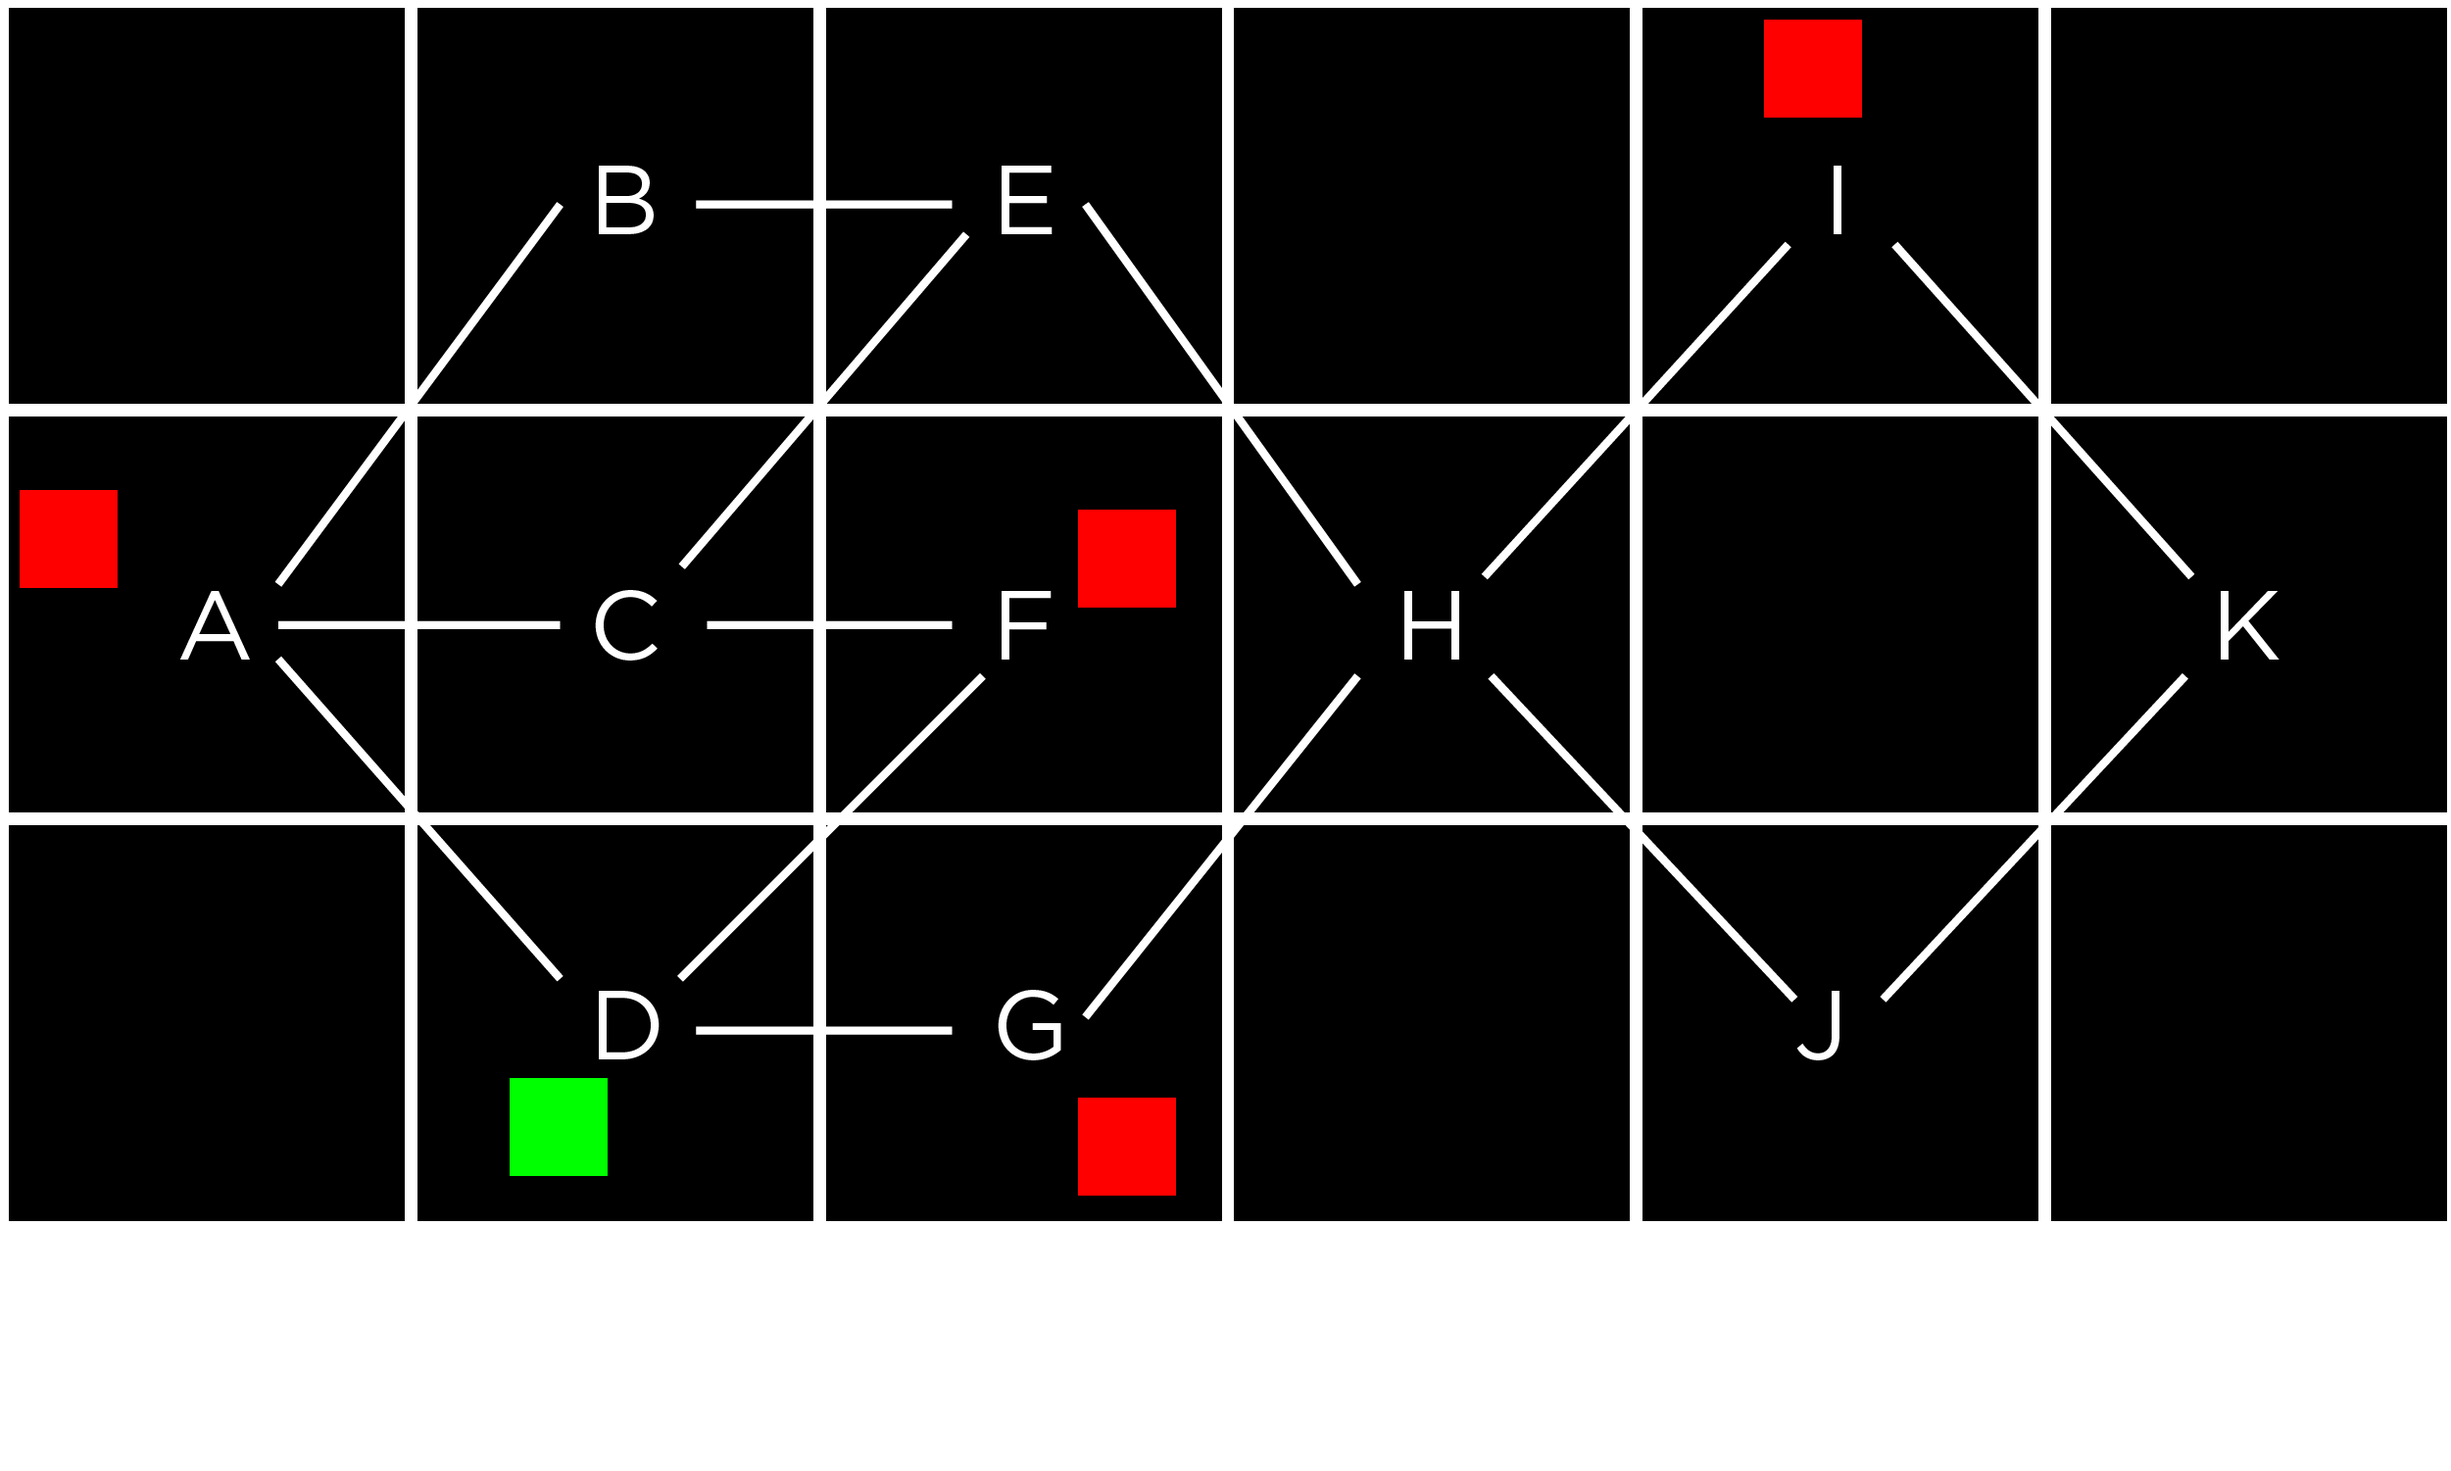
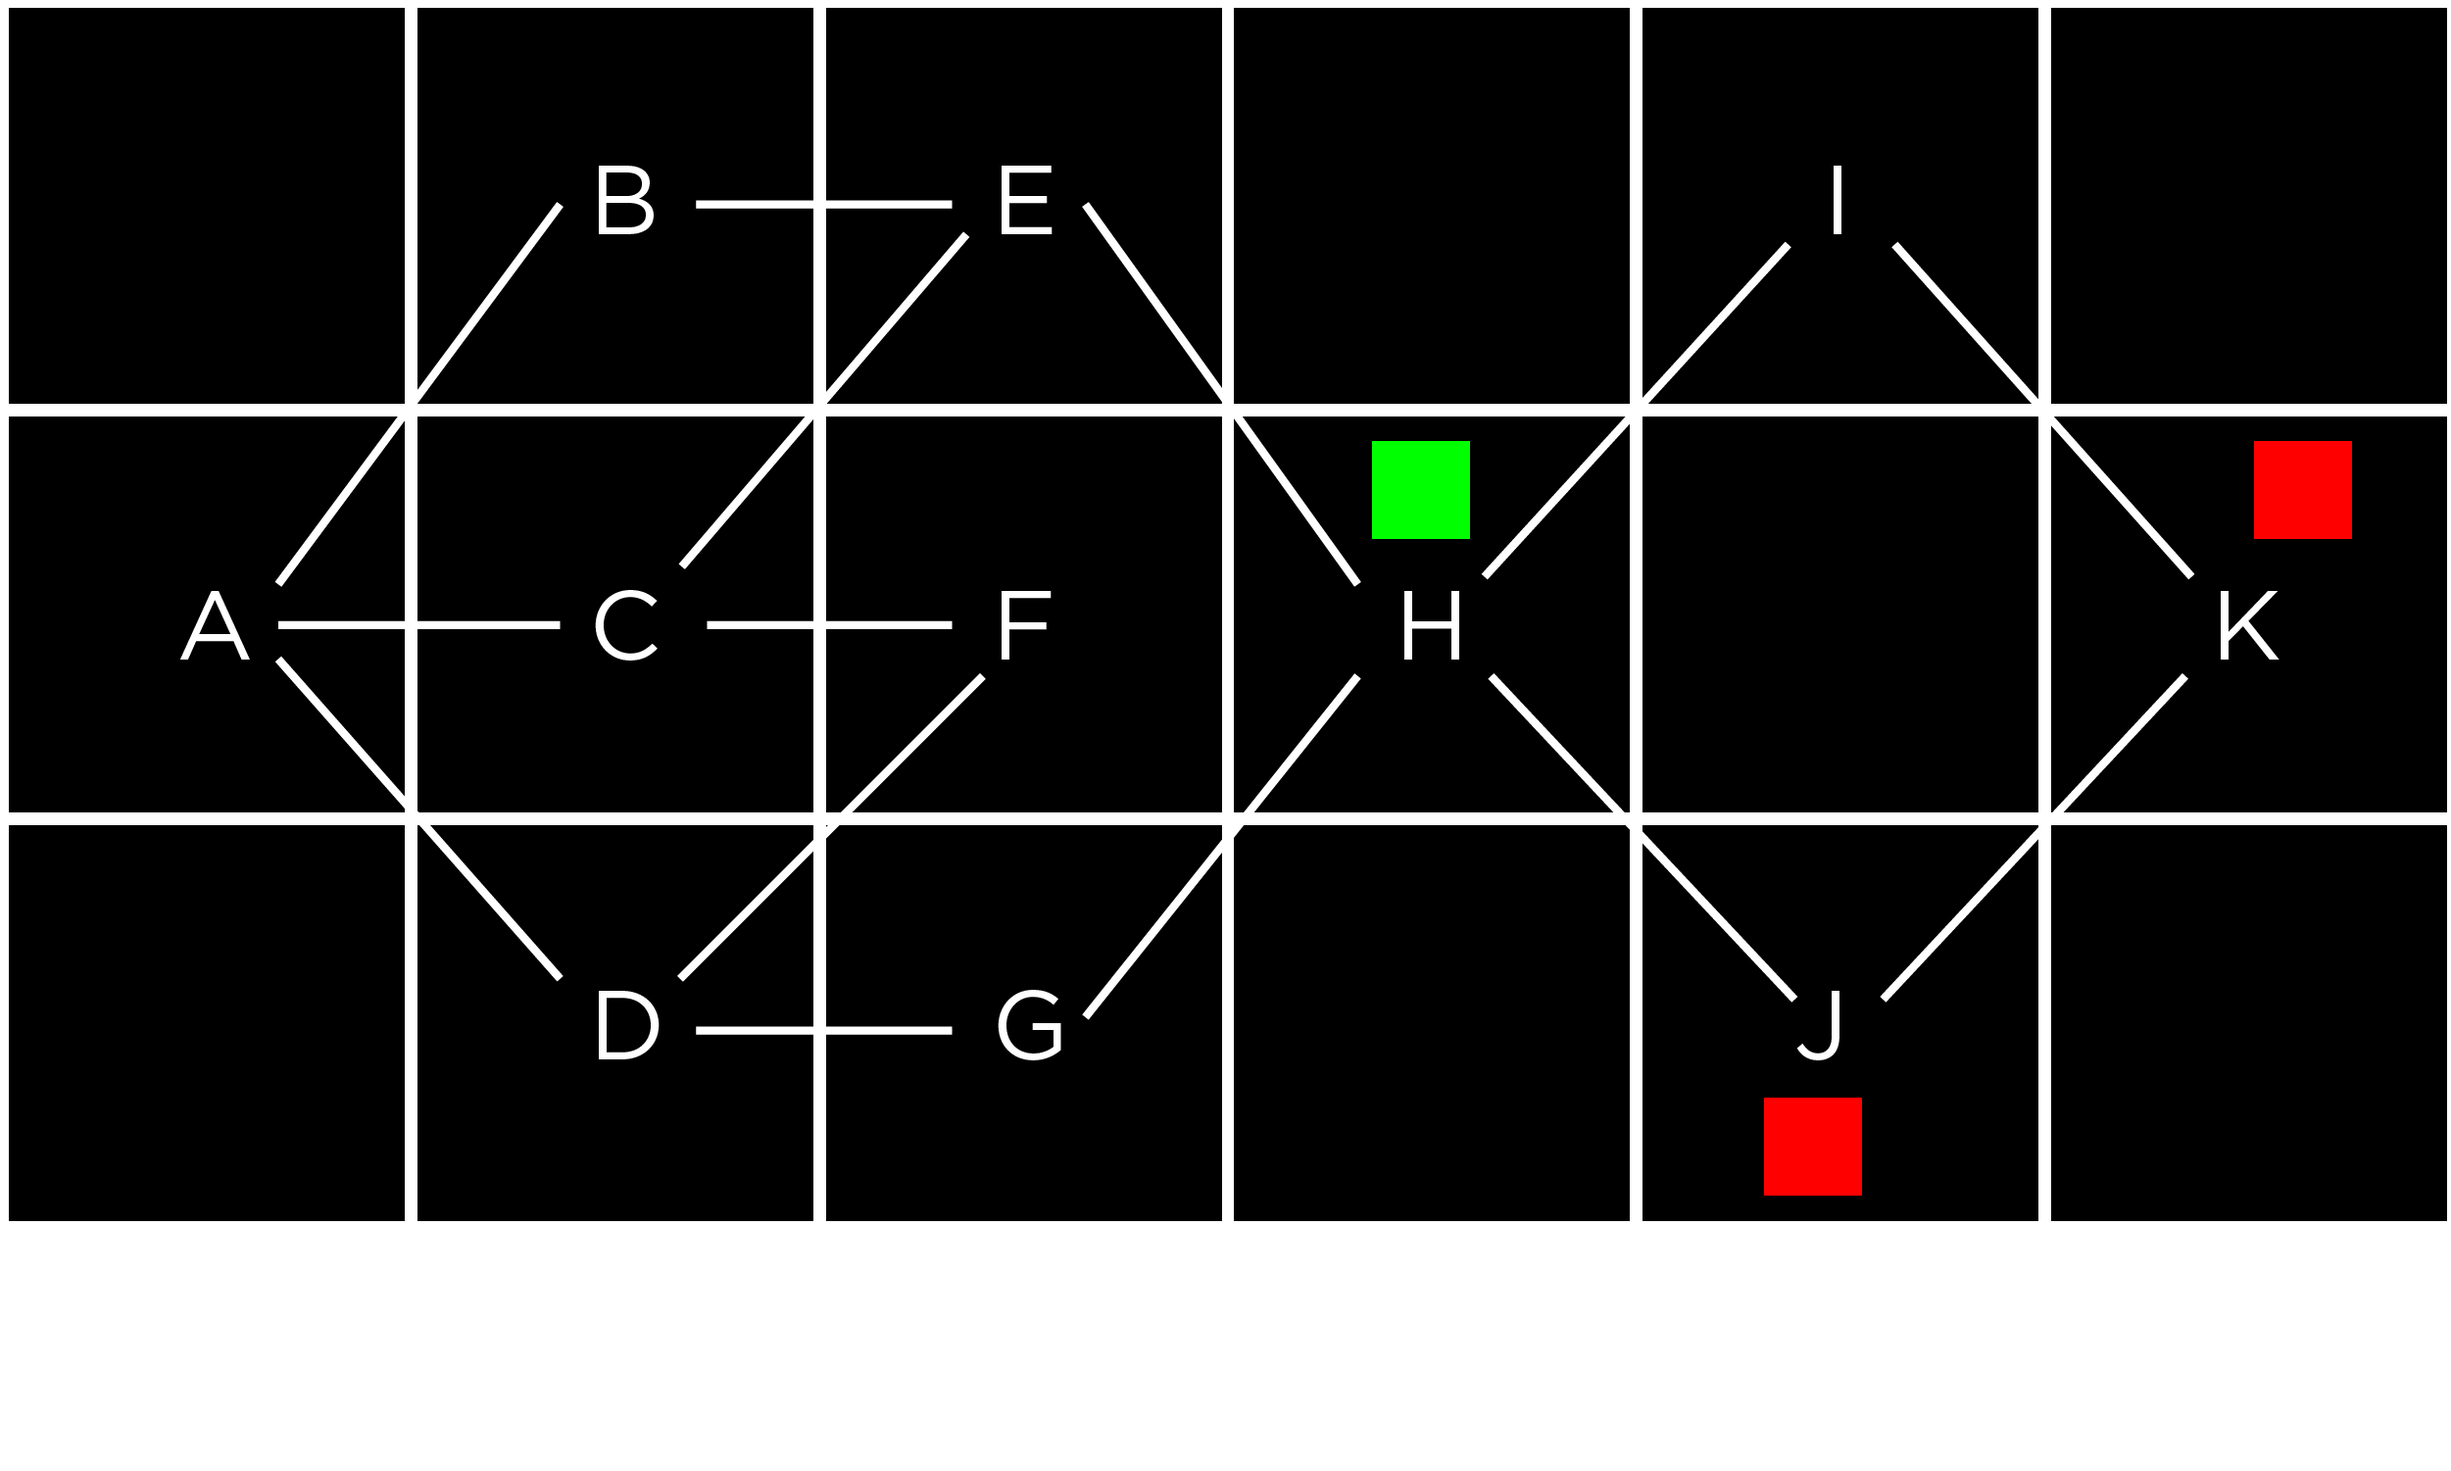
result image generation and display donegit add .!

diff --git a/templates/decoded_msg.html b/templates/decoded_msg.html
@@ -11,7 +11,7 @@
 {%endfor%}
 
 <div class="column">
-  <img src="/static/temp.png" alt="Meme #2" style="width:70%">
+  <img src="static/result/temp.png" alt="Meme #2" style="width:70%">
 </div>
 
 <!-- bar chart canvas element -->

diff --git a/app.py b/app.py
@@ -2,6 +2,19 @@ from flask import Flask, request, jsonify, render_template
 
 app = Flask(__name__)
 
+@app.after_request
+def add_header(r):
+    """
+    Add headers to both force latest IE rendering engine or Chrome Frame,
+    and also to cache the rendered page for 10 minutes.
+    """
+    r.headers["Cache-Control"] = "no-cache, no-store, must-revalidate"
+    r.headers["Pragma"] = "no-cache"
+    r.headers["Expires"] = "0"
+    r.headers['Cache-Control'] = 'public, max-age=0'
+    return r
+
+
 @app.route('/')
 def home():
     return render_template('index.html')
@@ -11,6 +24,10 @@ def home():
 @app.route("/decoded", methods=["GET", "POST"])
 def decoded():
     # msg = list(request.form.values())
+    #import os
+    # if os.path.exists("static/result/temp.png"):
+        #print("YESSSSSS")
+    # os.remove("static/result/temp.png")
     msg = [str(i) for i in request.form.values()]
     print(msg)
     x, key = msg[0], msg[1]
@@ -32,6 +49,20 @@ def decoded():
                 total_cost_list.append(total_cost)
 
         return render_template("decoded_msg.html", solution_text=ret_message, camps=camps, total_cost_list=total_cost_list, legend="Cost (Total Distance)")
+
+"""
+
+@app.after_request
+def add_header(response):
+    print("----------x----------x--------------")
+    response.headers['Pragma'] = 'no-cache'
+    response.headers['Cache-Control'] = 'no-cache, no-store, must-revalidate'
+    response.headers['Expires'] = '0'
+    response.headers['Cache-Control'] = 'public, max-age=0'
+    return response
+
+"""
+
 
 
 @app.route("/ps")

diff --git a/model.py b/model.py
@@ -100,17 +100,20 @@ class eval:
         for camp in self.location_dict.keys():
             camp_code = self.location_dict[camp][0]
             total_cost = 0
-            for enemy in loc_list:
-                enemy_code = self.location_dict[enemy][0]
-                path, cost = self.dijsktra(graph, camp_code, enemy_code)
-                total_cost += cost
+            print("hi", loc_list)
+            if camp not in loc_list:
+                print(camp)
+                for enemy in loc_list:
+                    enemy_code = self.location_dict[enemy][0]
+                    path, cost = self.dijsktra(graph, camp_code, enemy_code)
+                    total_cost += cost
 
-            total_cost_dict[camp] = round(total_cost, 2)
+                total_cost_dict[camp] = round(total_cost, 2)
 
 
-            if min == None or total_cost < min:
-                min = total_cost
-                ret = camp
+                if min == None or total_cost < min:
+                    min = total_cost
+                    ret = camp
 
         return ret, total_cost_dict
 
@@ -176,7 +179,7 @@ class eval:
 
         else:
             ret.append("Decoded message: " + decoded)
-
+            print("run", loc_list)
             our_camp, total_cost_dict = self.search(loc_list)
             ret.append("Our base should be at:" + " " + our_camp)
 

diff --git a/grid.py b/grid.py
@@ -6,6 +6,7 @@ class generate:
 
         self.greens = [d[x] for x in valid]
         self.reds = [d[x] for x in china]
+        print(self.reds)
 
 
 
@@ -30,6 +31,6 @@ class generate:
 
         for i, j in self.greens:
             img1.paste(green, (i, j))
-        # img1.save("static/temp.png")
+        img1.save("static/result/temp.png")
 
-        return img1
+        # return img1
